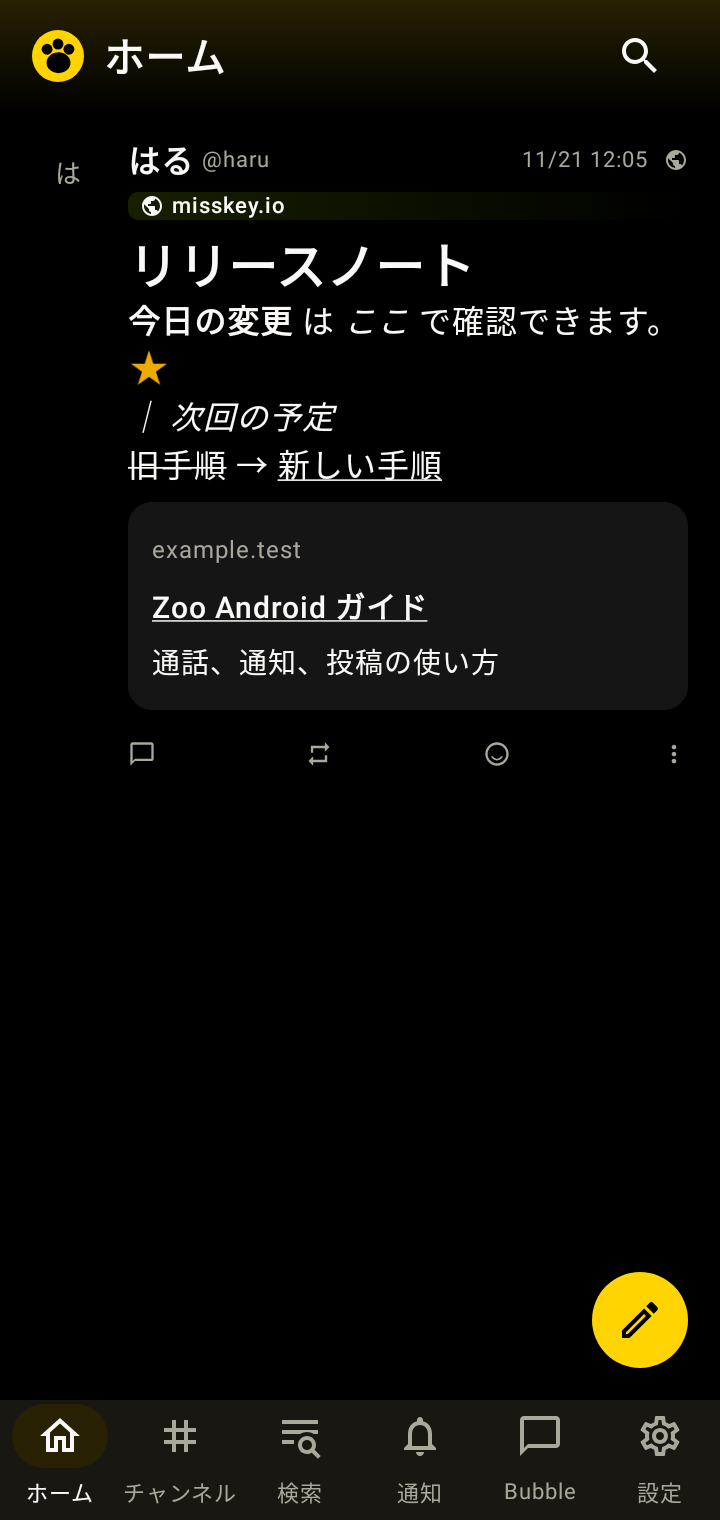
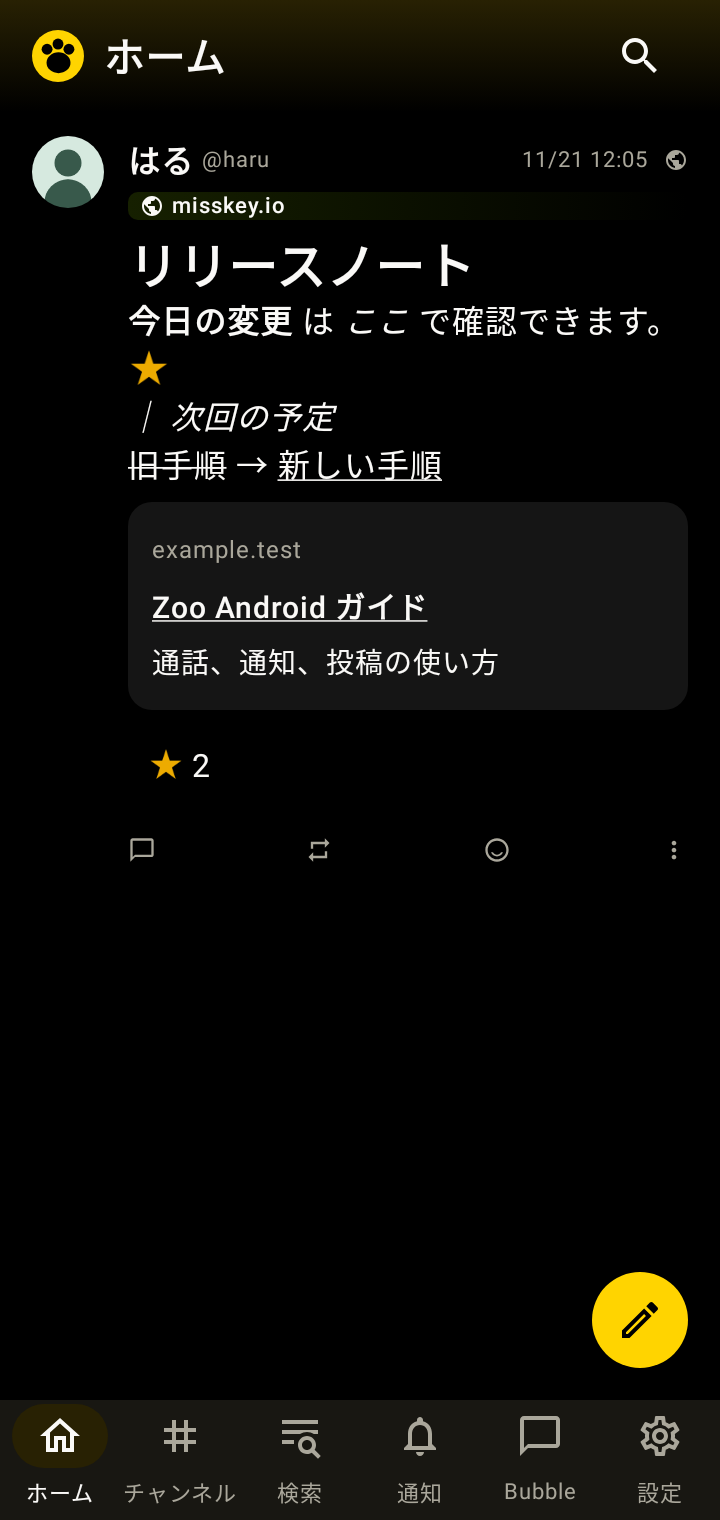
Use registered APub image proxies and refresh Android captures

diff --git a/frontend-compose/androidApp/src/main/kotlin/zoo/android/TimelineImageSources.kt b/frontend-compose/androidApp/src/main/kotlin/zoo/android/TimelineImageSources.kt
@@ -9,6 +9,7 @@ import zoo.publicUrl
 import zoo.text
 import zoo.android.ui.TimelineMedia
 import zoo.android.ui.TimelineMediaKind
+import zoo.android.ui.timelineMediaKind
 
 private val imageIdPattern = Regex("[a-f0-9]{64}")
 private val remoteReactionPattern = Regex("apub:([a-f0-9]{64}):(:[A-Za-z0-9_+-]+:)")
@@ -50,6 +51,24 @@ internal fun workspaceReactionImages(base: String, values: Set<String>, emojis: 
             }
         }
     }
+}
+
+private val localMediaPath = Regex("/api/home/images/[a-fA-F0-9-]+")
+
+internal fun timelinePostMedia(base: String, row: Row): TimelineMedia? {
+    val raw = row.text("url")
+    val local = raw.matches(localMediaPath)
+    val id = imageId(row.text("image_id"))
+    val kind = timelineMediaKind(row.text("media_type"))
+        ?: if (local || id != null) TimelineMediaKind.Image else return null
+    val preview = if (kind == TimelineMediaKind.Image && id != null) {
+        timelineImageUrl(base, "/api/activitypub/media-images/$id")
+    } else null
+    if (kind == TimelineMediaKind.Image && !local && preview == null) return null
+    val original = if (local || !raw.startsWith('/')) timelineImageUrl(base, raw) else null
+    val url = original ?: preview ?: return null
+    val name = row.text("name").ifBlank { if (kind == TimelineMediaKind.Video) "動画" else "画像" }
+    return TimelineMedia(url, name, kind, row.flag("is_sensitive"), url = url, previewUrl = preview)
 }
 
 internal fun selectTimelineMedia(post: List<TimelineMedia>, attachments: List<TimelineMedia>, preferAttachments: Boolean) =

diff --git a/frontend-compose/androidApp/src/main/kotlin/zoo/android/ConnectedScreenState.kt b/frontend-compose/androidApp/src/main/kotlin/zoo/android/ConnectedScreenState.kt
@@ -324,20 +324,7 @@ internal class ConnectedScreenState(
         }
     }
 
-    private fun postMedia(row: Row): TimelineMedia? {
-        val raw = row.text("url")
-        val local = raw.matches(Regex("/api/home/images/[a-fA-F0-9-]+"))
-        val url = if (local) endpoint(app.config.apiBaseUrl, raw) else raw
-        val safe = publicUrl(url)?.takeIf { it.protocol.name == "https" } ?: return null
-        val kind = timelineMediaKind(row.text("media_type")) ?:
-            if (local) TimelineMediaKind.Image else return null
-        val imageId = imageId(row.text("image_id"))
-        if (kind == TimelineMediaKind.Image && !local && imageId == null) return null
-        val previewUrl = imageId?.let { endpoint(app.config.apiBaseUrl, "/api/activitypub/media-images/$it") }
-        val name = row.text("name").ifBlank { if (kind == TimelineMediaKind.Video) "動画" else "画像" }
-        return TimelineMedia(safe.toString(), name, kind, row.flag("is_sensitive"),
-            url = safe.toString(), previewUrl = previewUrl)
-    }
+    private fun postMedia(row: Row): TimelineMedia? = timelinePostMedia(app.config.apiBaseUrl, row)
 
     private fun runEntryAction(action: AndroidUiAction.ActOnEntry, post: Boolean, encrypted: Boolean) {
         val id = action.item.id.encodeURLParameter()

diff --git a/frontend-compose/androidApp/src/test/kotlin/zoo/android/TimelineImageSourcesTest.kt b/frontend-compose/androidApp/src/test/kotlin/zoo/android/TimelineImageSourcesTest.kt
@@ -24,6 +24,16 @@ class TimelineImageSourcesTest {
     }
 
     @Test
+    fun registeredMediaUsesTheProxyEvenWhenTheOriginalIsNotHttps() {
+        val media = timelinePostMedia(base, obj(
+            "url" to "http://remote.example/old.png", "media_type" to "image/png", "image_id" to imageId,
+        ))
+        assertEquals("$base/api/activitypub/media-images/$imageId", media?.previewUrl)
+        assertEquals(media?.previewUrl, media?.url)
+        assertNull(timelinePostMedia(base, obj("url" to "https://remote.example/unregistered.png", "media_type" to "image/png")))
+    }
+
+    @Test
     fun linkedPostsUseAttachmentPresentationOnce() {
         val post = TimelineMedia("https://zoo.example/api/home/images/123", "photo", TimelineMediaKind.Image)
         val attachment = TimelineMedia("123", "photo", TimelineMediaKind.Image, attachmentId = "123")
